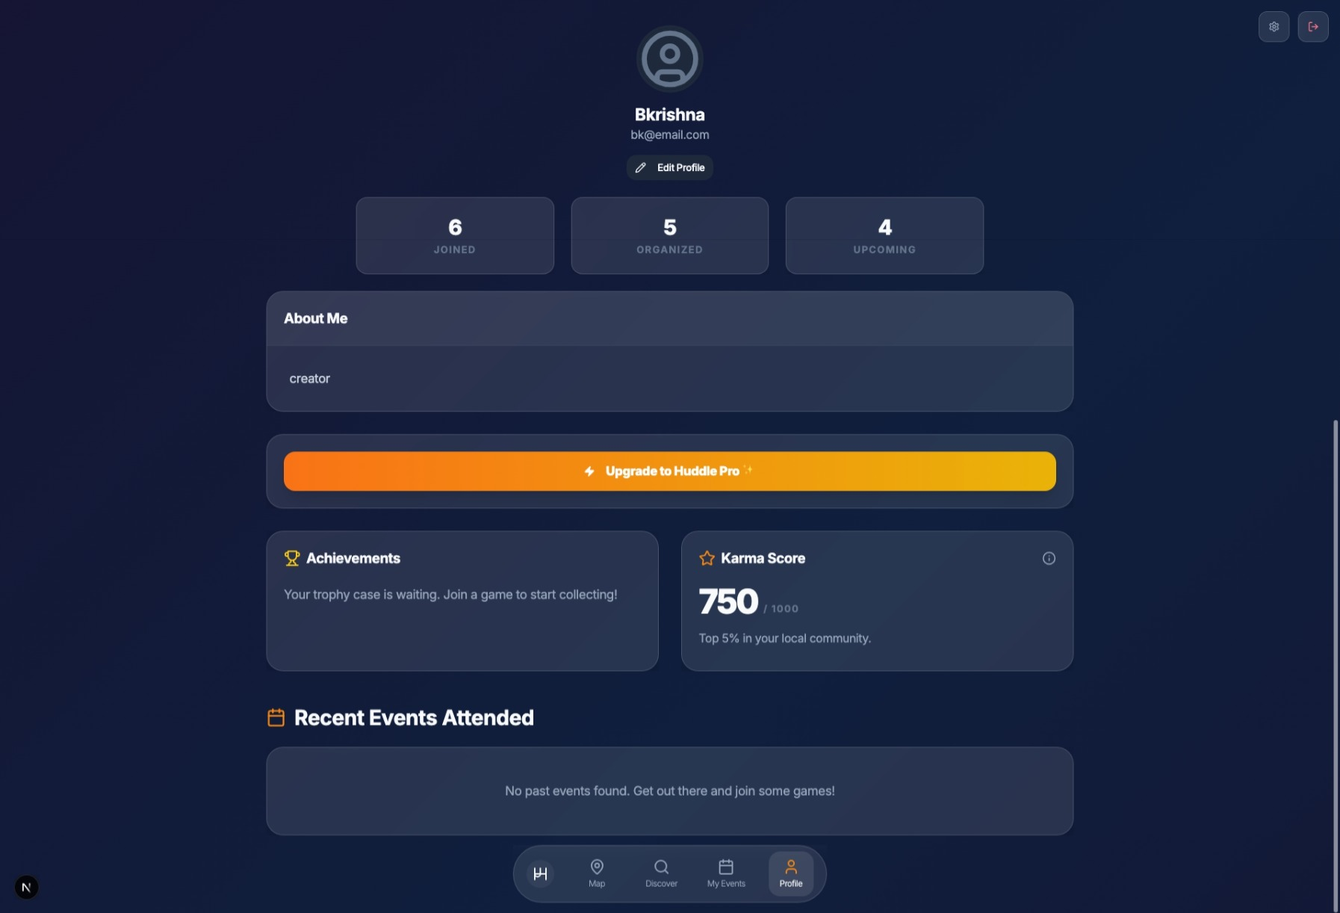
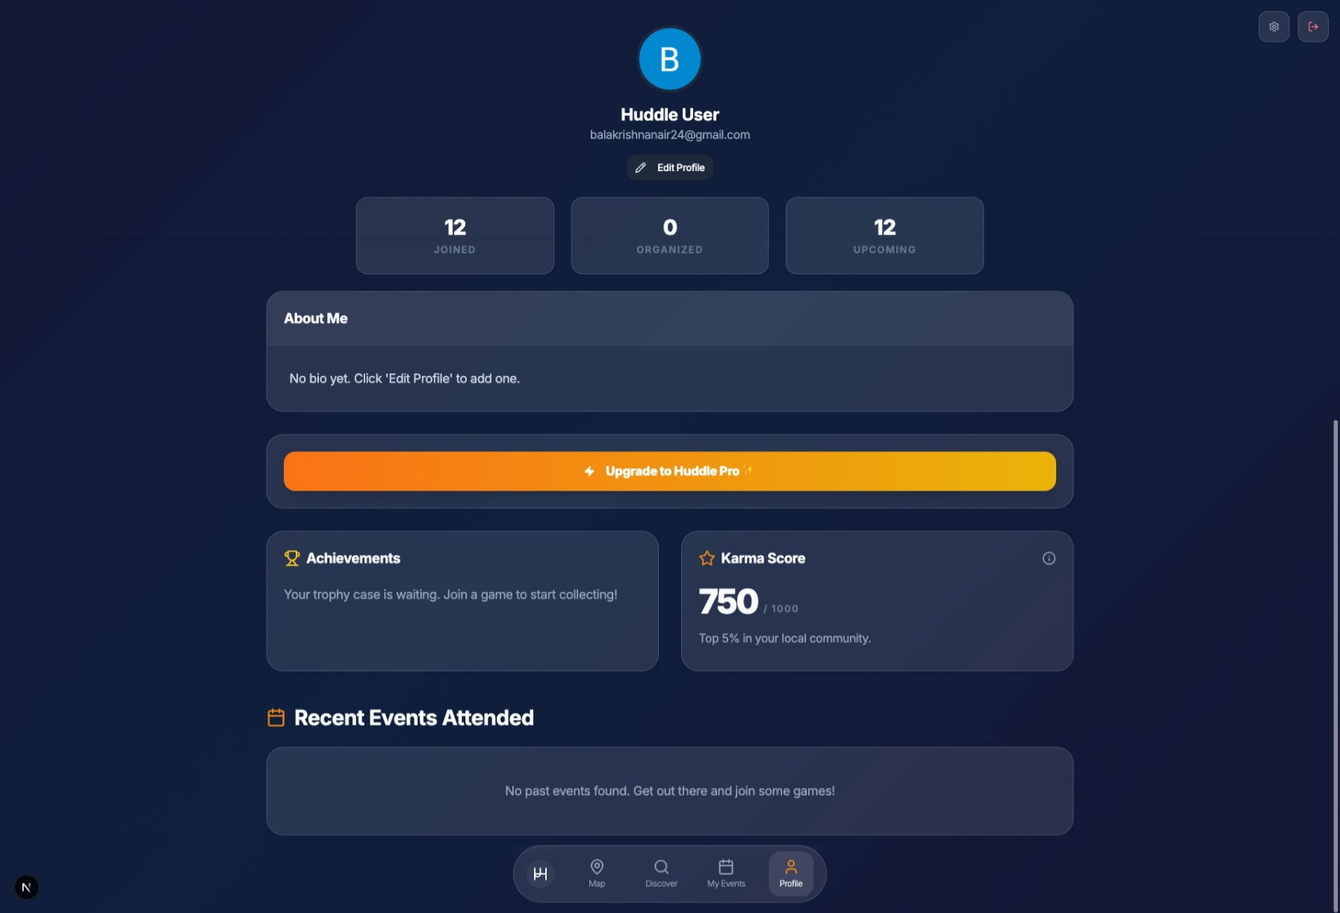
feat: implement deep linking, trackpad optimization, UMD event seeding, and discovery filters

Changed region(s): [[0.437, 0.0311, 0.5619, 0.1555], [0.2185, 0.4043, 0.3746, 0.4354]]

diff --git a/scripts/seed_umd.ts b/scripts/seed_umd.ts
@@ -1,0 +1,95 @@
+import { initializeApp, cert, getApps } from 'firebase-admin/app';
+import { getAuth } from 'firebase-admin/auth';
+import { getFirestore, Timestamp, GeoPoint } from 'firebase-admin/firestore';
+import * as geofire from 'geofire-common';
+
+const projectId = process.env.FIREBASE_PROJECT_ID;
+const clientEmail = process.env.FIREBASE_CLIENT_EMAIL;
+const privateKey = process.env.FIREBASE_PRIVATE_KEY?.replace(/\\n/g, '\n');
+
+if (!getApps().length) {
+    initializeApp({
+        credential: cert({ projectId, clientEmail, privateKey })
+    });
+}
+
+const db = getFirestore();
+const auth = getAuth();
+
+const umdLocations = [
+    { name: "McKeldin Library", location: "UMD McKeldin", lat: 38.9859, lng: -76.9451, category: "Learning", event: "Late Night Study Session" },
+    { name: "Iribe Center", location: "UMD Iribe", lat: 38.9904, lng: -76.9366, category: "Tech", event: "CMSC Project Meetup" },
+    { name: "Eppley Recreation Center", location: "UMD Eppley", lat: 38.9937, lng: -76.9472, category: "Sports", event: "Intramural Volleyball" },
+    { name: "Stamp Student Union", location: "UMD Stamp", lat: 38.9881, lng: -76.9447, category: "Food & Drink", event: "Coffee Chat at Stamp" },
+    { name: "SECU Stadium", location: "Maryland Stadium", lat: 38.9903, lng: -76.9472, category: "Sports", event: "Flag Football Scrimmage" },
+    { name: "Xfinity Center", location: "UMD Xfinity", lat: 38.9959, lng: -76.9416, category: "Sports", event: "Basketball Pickup Game" },
+    { name: "Hornbake Plaza", location: "UMD Hornbake", lat: 38.9877, lng: -76.9427, category: "Community", event: "Outdoor Board Games" },
+    { name: "Tawes Hall", location: "UMD Tawes", lat: 38.9886, lng: -76.9473, category: "Arts & Culture", event: "Poetry Open Mic" },
+    { name: "Clark Hall", location: "UMD Engineering", lat: 38.9892, lng: -76.9365, category: "Tech", event: "Robotics Build Night" },
+    { name: "Regents Drive Garage", location: "Regents Drive", lat: 38.9898, lng: -76.9416, category: "Community", event: "Car Enthusiast Meetup" },
+    { name: "The Clarice Smith Performing Arts Center", location: "The Clarice", lat: 38.9912, lng: -76.9515, category: "Arts & Culture", event: "Classical Music Listen-In" },
+    { name: "Discovery District", location: "Greater CP", lat: 38.9845, lng: -76.9284, category: "Tech", event: "Startup Pitch Deck Polish" },
+    { name: "Vigilante Coffee", location: "College Park", lat: 38.9917, lng: -76.9338, category: "Food & Drink", event: "AeroPress Workshop" },
+    { name: "Looney's Pub", location: "Route 1", lat: 38.9919, lng: -76.9339, category: "Food & Drink", event: "UMD Trivia Night" },
+    { name: "The Varsity", location: "Route 1", lat: 38.9922, lng: -76.9331, category: "Community", event: "Apartment Game Night" },
+    { name: "McKeldin Mall", location: "UMD Mall", lat: 38.9859, lng: -76.9418, category: "Community", event: "Frisbee on the Mall" },
+    { name: "Washington Quad", location: "South Campus", lat: 38.9834, lng: -76.9425, category: "Community", event: "Hammock & Chill" },
+    { name: "Nyumburu Cultural Center", location: "UMD Nyumburu", lat: 38.9873, lng: -76.9442, category: "Community", event: "Cultural Dialogue Series" },
+    { name: "University View", location: "Route 1", lat: 38.9934, lng: -76.9328, category: "Community", event: "Poolside Meetup" },
+    { name: "Lush Lab", location: "Iribe Center", lat: 38.9904, lng: -76.9366, category: "Learning", event: "VR Research Workshop" }
+];
+
+async function seed() {
+    try {
+        const userRecord = await auth.getUserByEmail('bk@email.com');
+        const uid = userRecord.uid;
+        const dbUser = await db.collection('users').doc(uid).get();
+        const userData = dbUser.data() || {};
+        const userName = userData.displayName || userData.name || "BK";
+
+        console.log(`Authenticated as ${userName} (${uid})`);
+
+        for (const loc of umdLocations) {
+            // Adding some minor random variance to coordinates to spread them out slightly even if at same building
+            const lat = loc.lat + (Math.random() * 0.001 - 0.0005);
+            const lng = loc.lng + (Math.random() * 0.001 - 0.0005);
+            const geohash = geofire.geohashForLocation([lat, lng]);
+
+            // Future dates only
+            const dateStr = new Date(Date.now() + Math.random() * 5 * 24 * 60 * 60 * 1000).toISOString().split('T')[0];
+            const timeStr = `${Math.floor(Math.random() * 12 + 10).toString().padStart(2, '0')}:00`;
+
+            const eventData = {
+                name: loc.event,
+                title: loc.event,
+                category: loc.category,
+                sport: loc.category,
+                location: loc.name,
+                venue: loc.name,
+                maxPlayers: Math.floor(Math.random() * 15) + 5,
+                currentPlayers: 1,
+                description: `Join us for ${loc.event} at ${loc.name}. Very UMD vibes. Go Terps!`,
+                createdBy: uid,
+                organizerName: userName,
+                players: [uid],
+                geopoint: new GeoPoint(lat, lng),
+                geohash,
+                date: dateStr,
+                time: timeStr,
+                createdAt: Timestamp.now(),
+                isPrivate: false,
+            };
+
+            await db.collection('events').add(eventData);
+            console.log(`Created: ${loc.event} at ${loc.name}`);
+        }
+
+        console.log("UMD Seeding complete!");
+        process.exit(0);
+    } catch (error) {
+        console.error("Error seeding UMD data:", error);
+        process.exit(1);
+    }
+}
+
+seed();

diff --git a/scripts/seed_top20.ts b/scripts/seed_top20.ts
@@ -1,0 +1,97 @@
+
+
+import { initializeApp, cert, getApps } from 'firebase-admin/app';
+import { getAuth } from 'firebase-admin/auth';
+import { getFirestore, Timestamp, GeoPoint } from 'firebase-admin/firestore';
+import * as geofire from 'geofire-common';
+
+const projectId = process.env.FIREBASE_PROJECT_ID;
+const clientEmail = process.env.FIREBASE_CLIENT_EMAIL;
+const privateKey = process.env.FIREBASE_PRIVATE_KEY?.replace(/\\n/g, '\n');
+
+if (!getApps().length) {
+    initializeApp({
+        credential: cert({ projectId, clientEmail, privateKey })
+    });
+}
+
+const db = getFirestore();
+const auth = getAuth();
+
+const universities = [
+    { name: "Princeton University", location: "Princeton, NJ", lat: 40.3439, lng: -74.6514 },
+    { name: "MIT", location: "Cambridge, MA", lat: 42.3601, lng: -71.0942 },
+    { name: "Harvard University", location: "Cambridge, MA", lat: 42.3770, lng: -71.1167 },
+    { name: "Stanford University", location: "Stanford, CA", lat: 37.4275, lng: -122.1697 },
+    { name: "Yale University", location: "New Haven, CT", lat: 41.3163, lng: -72.9223 },
+    { name: "University of Chicago", location: "Chicago, IL", lat: 41.7886, lng: -87.5987 },
+    { name: "Johns Hopkins University", location: "Baltimore, MD", lat: 39.3299, lng: -76.6205 },
+    { name: "University of Pennsylvania", location: "Philadelphia, PA", lat: 39.9522, lng: -75.1932 },
+    { name: "Caltech", location: "Pasadena, CA", lat: 34.1377, lng: -118.1253 },
+    { name: "Duke University", location: "Durham, NC", lat: 36.0014, lng: -78.9382 },
+    { name: "Northwestern University", location: "Evanston, IL", lat: 42.0565, lng: -87.6753 },
+    { name: "Dartmouth College", location: "Hanover, NH", lat: 43.7044, lng: -72.2887 },
+    { name: "Brown University", location: "Providence, RI", lat: 41.8268, lng: -71.4025 },
+    { name: "Vanderbilt University", location: "Nashville, TN", lat: 36.1447, lng: -86.8027 },
+    { name: "Rice University", location: "Houston, TX", lat: 29.7174, lng: -95.4018 },
+    { name: "Washington University in St. Louis", location: "St. Louis, MO", lat: 38.6488, lng: -90.3108 },
+    { name: "Cornell University", location: "Ithaca, NY", lat: 42.4534, lng: -76.4735 },
+    { name: "Columbia University", location: "New York, NY", lat: 40.8075, lng: -73.9626 },
+    { name: "University of Notre Dame", location: "Notre Dame, IN", lat: 41.7056, lng: -86.2353 },
+    { name: "UC Berkeley", location: "Berkeley, CA", lat: 37.8715, lng: -122.2730 }
+];
+
+async function seed() {
+    try {
+        const userRecord = await auth.getUserByEmail('bk@email.com');
+        const uid = userRecord.uid;
+        const dbUser = await db.collection('users').doc(uid).get();
+        const userData = dbUser.data() || {};
+        const userName = userData.displayName || userData.name || "BK";
+
+        console.log(`Authenticated as ${userName} (${uid})`);
+
+        const categories = ['Sports', 'Music', 'Community', 'Tech', 'Learning', 'Food & Drink'];
+
+        for (const uni of universities) {
+            const lat = uni.lat + (Math.random() * 0.01 - 0.005);
+            const lng = uni.lng + (Math.random() * 0.01 - 0.005);
+            const geohash = geofire.geohashForLocation([lat, lng]);
+
+            const dateStr = new Date(Date.now() + Math.random() * 7 * 24 * 60 * 60 * 1000).toISOString().split('T')[0];
+            const timeStr = `${Math.floor(Math.random() * 12 + 8).toString().padStart(2, '0')}:00`;
+            const category = categories[Math.floor(Math.random() * categories.length)];
+
+            const event = {
+                name: `Pickup ${category} at ${uni.name}`,
+                title: `Pickup ${category} at ${uni.name}`,
+                category: category,
+                sport: category, // For schema compatibility
+                location: uni.location,
+                maxPlayers: Math.floor(Math.random() * 20) + 10,
+                currentPlayers: 1,
+                description: `Come join us for a great time at ${uni.name} campus! Let's build community.`,
+                createdBy: uid,
+                organizerName: userName,
+                players: [uid],
+                geopoint: new GeoPoint(lat, lng),
+                geohash,
+                date: dateStr,
+                time: timeStr,
+                createdAt: Timestamp.now(),
+                isPrivate: false,
+            };
+
+            await db.collection('events').add(event);
+            console.log(`Created event at ${uni.name}`);
+        }
+
+        console.log("Seeding complete!");
+        process.exit(0);
+    } catch (error) {
+        console.error("Error seeding data:", error);
+        process.exit(1);
+    }
+}
+
+seed();

diff --git a/components/map-view.tsx b/components/map-view.tsx
@@ -15,6 +15,7 @@ import { isToday, isWeekend, isBefore, addHours, isFuture } from "date-fns"
 interface MapViewProps {
   user: any
   eventId?: string
+  initialCenter?: { lat: number; lng: number }
 }
 
 const MapRenderer = ({ onMapLoad, children, styles }: { onMapLoad: (map: google.maps.Map) => void, children: React.ReactNode, styles?: google.maps.MapTypeStyle[] }) => {
@@ -195,20 +196,20 @@ const DARK_MAP_STYLE = [
   },
 ];
 
-export default function MapView({ user, eventId }: MapViewProps) {
+export default function MapView({ user, eventId, initialCenter }: MapViewProps) {
   const [events, setEvents] = useState<GameEvent[]>([])
   const [selectedEvent, setSelectedEvent] = useState<GameEvent | null>(null)
   const [hoveredEvent, setHoveredEvent] = useState<GameEvent | null>(null)
   const [showCreateModal, setShowCreateModal] = useState(false)
   const [userLocation, setUserLocation] = useState<{ lat: number; lng: number } | null>(null)
-  const [mapCenter, setMapCenter] = useState<{ lat: number; lng: number }>({ lat: 38.9897, lng: -76.9378 }) // College Park, MD
+  const [mapCenter, setMapCenter] = useState<{ lat: number; lng: number }>(initialCenter || { lat: 38.9897, lng: -76.9378 }) // College Park, MD
   const [map, setMap] = useState<google.maps.Map | null>(null)
   const [activeCategory, setActiveCategory] = useState("All");
   const [activeTime, setActiveTime] = useState("All");
-  const [currentZoom, setCurrentZoom] = useState(13);
+  const [currentZoom, setCurrentZoom] = useState(initialCenter ? 17 : 13);
   const [viewMode, setViewMode] = useState<"map" | "list">("map");
   const [showLocationPrompt, setShowLocationPrompt] = useState(false);
-  const [hasCenteredDefault, setHasCenteredDefault] = useState(false);
+  const [hasCenteredDefault, setHasCenteredDefault] = useState(!!initialCenter);
 
   const mapsApiKey = process.env.NEXT_PUBLIC_GOOGLE_MAPS_API_KEY;
   const mapId = process.env.NEXT_PUBLIC_GOOGLE_MAPS_STYLE_MAP_ID;
@@ -304,13 +305,12 @@ export default function MapView({ user, eventId }: MapViewProps) {
           if (response.ok) {
             const event: GameEvent = await response.json();
             if (event.geopoint) {
-              // Pan correctly and update zoom
-              map.setCenter({ lat: event.geopoint.latitude, lng: event.geopoint.longitude });
-              map.setZoom(17);
+              // Only pan/zoom if we don't have an initialCenter (which already set the view)
+              if (!initialCenter) {
+                map.setCenter({ lat: event.geopoint.latitude, lng: event.geopoint.longitude });
+                map.setZoom(17);
+              }
               setSelectedEvent(event);
-
-              // Prevent default center from re-running
-              setUserLocation({ lat: event.geopoint.latitude, lng: event.geopoint.longitude });
             }
           }
         } catch (error) {
@@ -319,7 +319,7 @@ export default function MapView({ user, eventId }: MapViewProps) {
       };
       fetchAndFocusEvent();
     }
-  }, [user, eventId, map, selectedEvent]);
+  }, [user, eventId, map, selectedEvent, initialCenter]);
 
   // Debounce the map idle event to prevent spamming the API when dragging/zooming rapidly
   const debouncedFetchEventsInView = useMemo(() => {
@@ -633,13 +633,13 @@ export default function MapView({ user, eventId }: MapViewProps) {
           )}
 
           {viewMode === 'map' && user && (
-            <Button id="create-event-button" onClick={() => setShowCreateModal(true)} size="lg" className="absolute bottom-44 right-6 h-14 w-14 rounded-full bg-primary text-primary-foreground shadow-lg hover:scale-110 transition-transform z-10">
+            <Button id="create-event-button" onClick={() => setShowCreateModal(true)} size="lg" className="absolute bottom-60 right-6 h-14 w-14 rounded-full bg-primary text-primary-foreground shadow-lg hover:scale-110 transition-transform z-10">
               <Plus className="w-6 h-6" />
             </Button>
           )}
 
           {viewMode === 'map' && (
-            <Button onClick={handleRecenter} variant="default" size="lg" className="absolute bottom-28 right-6 h-14 w-14 rounded-full bg-primary text-primary-foreground shadow-lg hover:bg-orange-600 hover:scale-110 transition-all z-10">
+            <Button onClick={handleRecenter} variant="default" size="lg" className="absolute bottom-44 right-6 h-14 w-14 rounded-full bg-primary text-primary-foreground shadow-lg hover:bg-orange-600 hover:scale-110 transition-all z-10">
               <LocateFixed className="w-6 h-6" />
             </Button>
           )}

diff --git a/components/location-search.tsx b/components/location-search.tsx
@@ -48,22 +48,30 @@ export default function LocationSearchInput({ onPlaceSelect, insideModal = false
   // FIX: Prevent Radix Dialog / Input onBlur from hiding the Google Maps Places Autocomplete dropdown prematurely.
   // The .pac-container dropdown loses focus on mousedown/touchstart before the native click event fires.
   useEffect(() => {
-    if (!insideModal) return;
-    const handleDropdownInteraction = (e: MouseEvent | TouchEvent) => {
+    const handleDropdownInteraction = (e: MouseEvent | TouchEvent | PointerEvent) => {
       const target = e.target as HTMLElement;
       if (target && target.closest(".pac-container")) {
         // Prevent focus loss on the input field when tapping the dropdown
+        // This is critical for Google Places Autocomplete inside Radix Dialogs
         e.preventDefault();
         e.stopPropagation();
+        e.stopImmediatePropagation();
+
+        // Explicitly keep focus on the input to ensure maps dropdown stays visible
+        if (inputRef.current) {
+          inputRef.current.focus();
+        }
       }
     };
 
-    // Use capture phase so we intercept before input blur
+    // Use capture phase so we intercept before input blur or Radix focus trap triggers
     document.addEventListener("mousedown", handleDropdownInteraction, { capture: true });
+    document.addEventListener("pointerdown", handleDropdownInteraction, { capture: true });
     document.addEventListener("touchstart", handleDropdownInteraction, { capture: true, passive: false });
 
     return () => {
       document.removeEventListener("mousedown", handleDropdownInteraction, { capture: true });
+      document.removeEventListener("pointerdown", handleDropdownInteraction, { capture: true });
       document.removeEventListener("touchstart", handleDropdownInteraction, { capture: true });
     };
   }, []);

diff --git a/app/(app)/map/page.tsx b/app/(app)/map/page.tsx
@@ -41,6 +41,21 @@ export async function generateMetadata(
 export default async function MapPage({ searchParams }: Props) {
   const resolvedParams = await searchParams;
   const eventId = resolvedParams.eventId as string;
+  let initialCenter = undefined;
 
-  return <MapClient eventId={eventId} />
+  if (eventId) {
+    try {
+      const event = await getEvent(eventId) as GameEvent;
+      if (event && event.geopoint) {
+        initialCenter = {
+          lat: event.geopoint.latitude,
+          lng: event.geopoint.longitude
+        };
+      }
+    } catch (e) {
+      console.error("Error fetching initial event center", e);
+    }
+  }
+
+  return <MapClient eventId={eventId} initialCenter={initialCenter} />
 }

diff --git a/app/(app)/map/map-client.tsx b/app/(app)/map/map-client.tsx
@@ -3,8 +3,8 @@
 import { useFirebase } from "@/lib/firebase-context"
 import MapView from "@/components/map-view"
 
-export default function MapClient({ eventId }: { eventId?: string }) {
+export default function MapClient({ eventId, initialCenter }: { eventId?: string, initialCenter?: { lat: number, lng: number } }) {
     const { user } = useFirebase()
 
-    return <MapView user={user} eventId={eventId} />
+    return <MapView user={user} eventId={eventId} initialCenter={initialCenter} />
 }

diff --git a/lib/auth.ts b/lib/auth.ts
@@ -12,6 +12,11 @@ import { auth } from "./firebase";
 import { createUser, getUser } from "./db-client";
 
 const googleProvider = new GoogleAuthProvider();
+googleProvider.addScope('https://www.googleapis.com/auth/userinfo.email');
+googleProvider.addScope('https://www.googleapis.com/auth/userinfo.profile');
+googleProvider.setCustomParameters({
+  prompt: 'select_account'
+});
 
 // These functions are designed to be called only in the browser.
 

diff --git a/README.md b/README.md
@@ -19,14 +19,14 @@ This production-ready application features a complete authentication system, rea
 ## Key Features & Functionality
 
 *   **🌍 Frictionless Guest Access**: Unauthenticated users can instantly explore the live map and Discover feed. Replaced aggressive auth-walls with a "Continue as Guest" experience, allowing community exploration before commitment.
-*   **📍 Advanced Map UX (Emoji Pins & Hover States)**: Replaced clunky native popups with sleek, custom-built intuitive React nodes. Pins display category-specific emojis and elegantly expand to show event details on hover or when zooming in close.
-*   **🔗 Social Deep Linking & Open Graph**: Shareable event links (`/map?eventId=xyz`) automatically generate rich Open Graph previews (Title, Category) for iMessage/Discord. Clicking the link instantly pans the map to the coordinates and opens the event drawer.
+*   **📍 Advanced Map UX (Trackpad Panning & Emoji Pins)**: Optimized Google Maps for native macOS navigation. Removed `greedy` gesture handling to allow standard trackpad panning. Built custom React marker nodes that display category-specific emojis and elegantly expand to show event details on hover.
+*   **🔗 Social Deep Linking & Open Graph**: Shareable event links (`/map?eventId=xyz`) automatically generate rich Open Graph previews (Title, Category) for iMessage/Discord. Clicking the link instantly pans the map to the coordinates and opens the event drawer using a high-performance server-to-client handoff.
 *   **🔐 Secure Hybrid Authentication**: Complete session management with Next.js 15 App Router compatibility. Combines Firebase Auth on the client with the Firebase Admin SDK on the server using secure HTTP-only cookies.
 *   **📅 AI-Powered Event Creation**: Create single or recurring events with an intuitive modal featuring a global location search bar, draggable map pins, server-side validation, and instant Gemini AI-powered description generation.
 *   **👥 RSVP & Unjoin Optimization**: Users can join/unjoin events seamlessly with optimistic UI updates. Added a dedicated "Unjoin" button to the "Joined" tab on the "My Events" page for quick action.
 *   **🗑 Event Deletion & Management**: Organizers can now delete their events directly from the event details drawer or organized feed. Securely enforced via server-side permission checks.
 *   **🔄 Map/List View Toggle**: Instantly switch between the interactive map and a scrollable vertical feed (List View) of events without losing state.
-*   **🕒 Time-Based Discovery Filters**: Surface events happening "Next 2 Hrs", "Today", or "This Weekend" with a single tap using new horizontal chip filters.
+*   **🕙 Discovery Filters (Time & Range)**: Surface events happening "Next 2 Hrs", "Today", or "This Weekend" with a single tap. Added a functional "Within Range" filter (5-50 miles) powered by client-side Haversine math for precise DMV area discoveries.
 *   **🕵 Private Events & Deep Linking**: Added support for link-only private events that are hidden from the discovery feed but accessible via secure deep links.
 *   **💬 Live Event Chat**: Each event features instantaneous live messaging for participants to coordinate logistics, powered by optimistic UI updates.
 *   **👤 Elegant User Profiles**: Premium "glassmorphic" profile pages showcasing user bios, dynamic "Interests" tags, and a history of organized/joined events.
@@ -35,6 +35,7 @@ This production-ready application features a complete authentication system, rea
 *   **💾 Persistent Map State**: Utilizing `sessionStorage` to remember your last map position, zoom level, and UI states (like prompt dismissals). Navigation between pages no longer resets your perspective.
 *   **🧹 Decluttered Maps UX**: Custom map styling that intelligently hides business POIs (restaurants, shops) globally, ensuring your event pins are the primary focus of the experience.
 *   **📱 Native-Feel Mobile Navigation**: Fully responsive layouts with horizontal-scroll filter chips and optimized bottom padding to prevent content from being cut off by the floating glass navigation bar.
+*   **🎓 University-Specific Mock Seeding**: Includes a powerful Node.js seeding suite (`scripts/seed_umd.ts`) to populate the map with realistic, landmark-specific events at UMD (McKeldin, Iribe, Eppley) and other Top 20 US universities.
 
 ## UI/UX & Design Philosophy
 

diff --git a/README Team.md b/README Team.md
@@ -82,11 +82,13 @@ All API routes are located in the `app/api/` directory and are secured with Zod 
 *   **Server Component Deep Linking:** The `/map/page.tsx` is built as a Server Component. Sharing an event link (`?eventId=xyz`) queries the database server-side to generate dynamic **Open Graph (OG) Tags**, allowing rich previews (Title, Category) inside iMessage/Discord before the JS bundle even loads.
 *   **Advanced Marker UX:** Dropped clunky Google Maps `InfoWindow` components in favor of customizable React DOM nodes injected into `@vis.gl/react-google-maps` `AdvancedMarker` tags. Emojis scale responsively, fixing persistent z-index layout shifts.
 *   **Hoisted Location Context:** The `APIProvider` is hoisted to the root of the map view to ensure `LocationSearchInput` (Places Library) share the same singleton instance as the Map canvas, preventing initialization race conditions.
-*   **Greedy Gesture Handling:** To solve trackpad/touch scrolling issues in embedded Google Maps, `gestureHandling: 'greedy'` is enforced. This ensures the map captures all scroll/pan inputs without requiring modifier keys (Cmd/Ctrl).
+*   **Trackpad Panning Optimization:** To maintain a "Native App" feel on macOS, `gestureHandling: 'greedy'` was explicitly removed. This allows the Google Map to respect standard trackpad pan gestures without forcing a zoom-only feedback loop.
 *   **Karma Gamification:** Profile pages include a `Karma Score` tracking system. This uses an experimental "Organizing vs. Participating" weighted logic, displayed with hoverable Radix tooltips for transparency.
 *   **Dropdown Focus Locking:** Next.js Radix Dialog modals aggressively steal focus, breaking Google Places autocomplete dropdowns on mobile. We defeated this by capturing `mousedown`/`touchstart` events and invoking `e.preventDefault()` locally inside our search bar.
 *   **Session State Persistence:** Implemented a session-persistence layer for the map view using `sessionStorage`. This caches the user's viewport (center/zoom) and UI states (like prompt dismissals), ensuring a continuous UX when navigating between different app sections.
 *   **POI-Free Map Styling:** Leveraged the `styles` property of the Google Map component to inject absolute POI visibility overrides. This programmatic "decluttering" removes commercial noise (restaurants/shops) without requiring separate Map styles in the Google Cloud Console.
+*   **Haversine Distance Math:** The "Within Range" discover filter implements a client-side Haversine formula to compute exact distances from `userLocation`. This allows for highly accurate mile-based filtering even when backend queries are geohash-bounded.
+*   **Infrastructure Seeding:** The `scripts/` directory contains Node.js utilities (`seed_umd.ts`, `seed_top20.ts`) that utilize the `Firebase Admin SDK` to bypass security rules and populate the production database with realistic, landmark-specific mock data for development.
 *   **Mobile-Optimized Layouts:** Standardized `pb-28` padding across all scrollable views and implemented `overflow-x-auto` on filter groups. This ensures a 100% collision-free experience with the floating bottom navigation bar on small devices.
 
 ## 7. Local Development Setup
